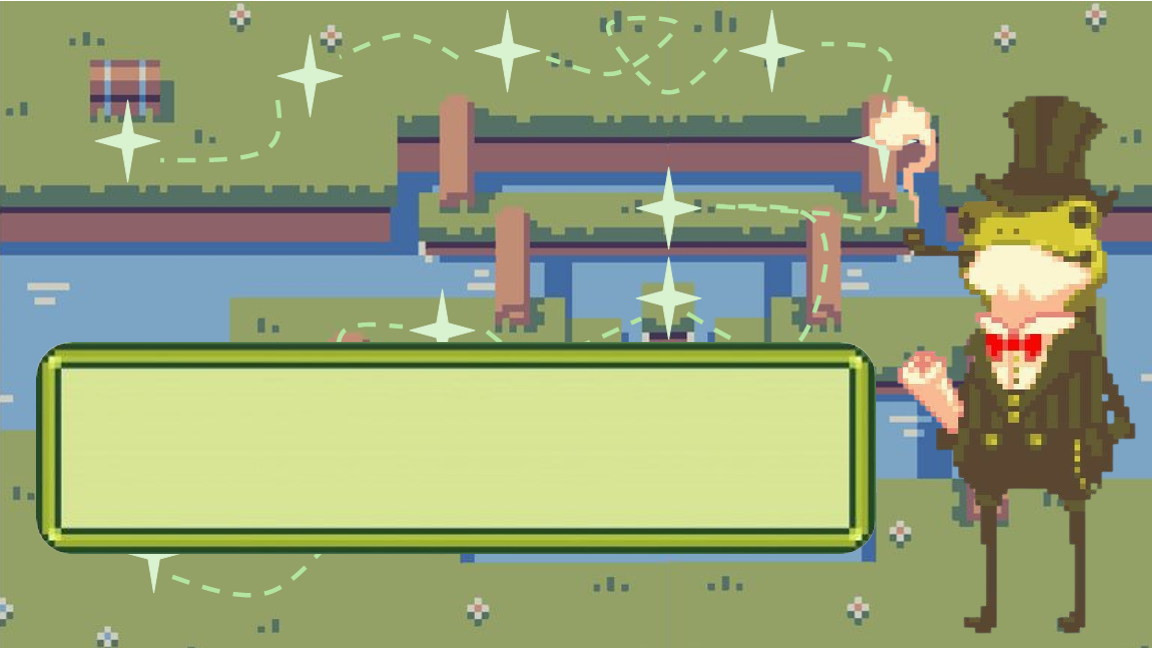
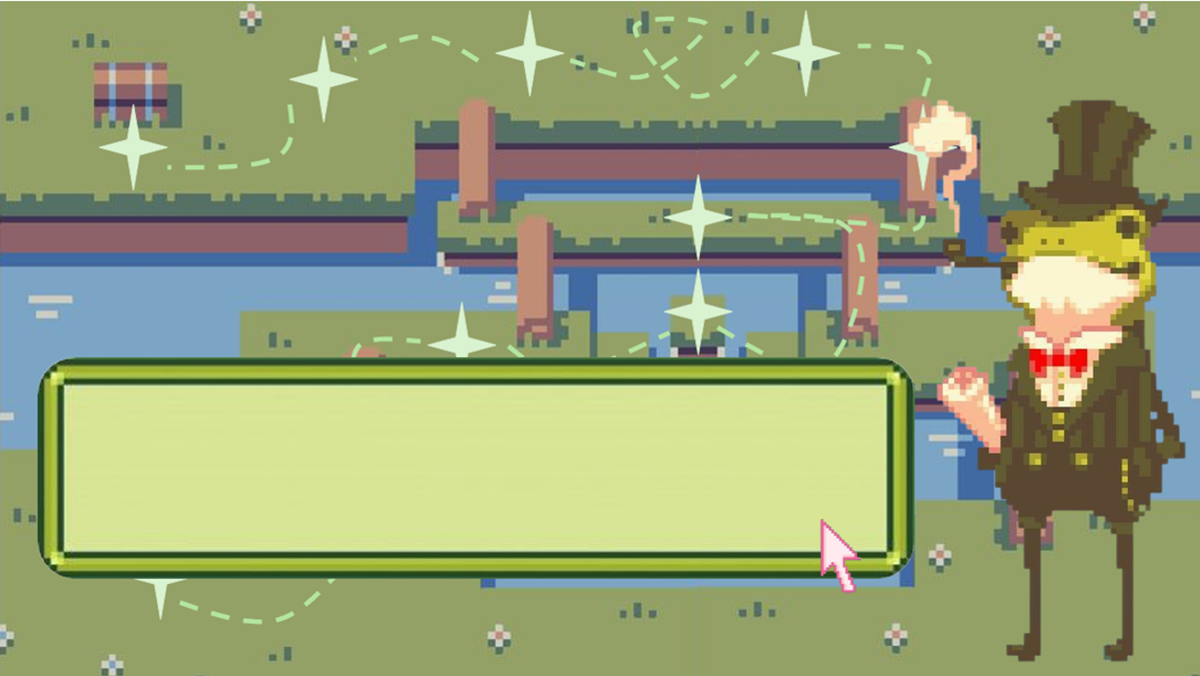
Updated story files

diff --git a/story_2.py b/story_2.py
@@ -10,17 +10,25 @@ TITLE_FONT = pygame.freetype.Font("story_font.otf", 40)
 
 title = """LAYTON"""
 texts = [
-    """Ah voyageur intrépide, *ribbit* bienvenue dans ces contrées sylvestres. Je suis Layton,""",
-    """Chef de la Guilde, gardien de ces marais ancestraux. J’entrevois dans vos yeux une lueur""",
-    """de détermination et de bravoure *ribbit*. Je vous confie une quête d’une importance""",
-    """capitale, même si vous ne l’avez peut être pas encore souhaitée. Vous êtes désigné pour""",
-    """récupérer les dix épées légendaires, symbole de pouvoir et de savoir ancien. Je vous""",
-    """servirais de guide n’ayez crainte *ribbit*. Il est maintenant l’heure pour vous """,
-    """d’accomplir votre destinée. Je vous souhaite bonne chance voyageur *ribbit*."""
+    """Bienvenue dans la première étape de votre périple, voyageur. Vous êtes désormais sur""",
+    """le point de vous aventurer dans les profondeurs de notre royaume, où les défis et""",
+    """les mystères abondent. Pour trouver la première des dix épées légendaires, vous devrez """,
+    """traverser ce niveau avec diligence et habileté.""",
+    """Utilisez les touches fléchées de votre clavier pour vous déplacer à travers ce""",
+    """dédale de dangers. Le temps presse, donc ne tardez pas trop. Chaque seconde écoulée""",
+    """vous rapproche de l'échec.""",
+    """Attention aux obstacles qui jonchent votre chemin. Évitez-les avec agilité pour ne""",
+    """pas compromettre votre progression. Seuls les plus habiles et les plus attentifs""",
+    """réussiront à atteindre l'épée convoitée.""",
+    """N'oubliez pas que votre quête est chronométrée. Le temps file comme le vent, et chaque""",
+    """seconde compte. Soyez rapide, mais ne négligez pas la prudence.""",
+    """Une fois que vous aurez atteint l'épée, votre aventure ne fera que commencer. Mais""",
+    """pour cela, vous devez d'abord surmonter ce premier défi avec succès. Allez, brave""",
+    """voyageur, que la chance soit avec vous."""
 ]
 
 # Constantes
-menu = "images/story_screen.png"
+menu = "images/story_screen_2.png"
 
 
 def creation_fenetre():
@@ -60,10 +68,10 @@ def creation_fenetre():
             if event.type == MOUSEBUTTONDOWN and event.button == 1:  # Vérifier le clic de souris
                 # Récupérer les coordonnées du clic
                 clic_x, clic_y = event.pos
-                if 1349 < clic_x < 1407 and 854 < clic_y < 959:
+                print(clic_x, clic_y)
+                if 1313 < clic_x < 1366 and 828 < clic_y < 941:
                     running = False
                     import select_lvl
     pygame.quit()
-
 
 creation_fenetre()

diff --git a/story.py b/story.py
@@ -1,0 +1,26 @@
+# STORY 1 --> introduction
+
+"""LAYTON : Ah voyageur intrépide, *ribbit* bienvenue dans ces contrées sylvestres. Je suis Layton, Chef de la Guilde,
+gardien de ces marais ancestraux. J’entrevois dans vos yeux une lueur de détermination et de bravoure *ribbit*. Je vous
+confie une quête d’une importance capitale, même si vous ne l’avez peut être pas encore souhaitée. Vous êtes désigné
+pour récupérer les dix épées légendaires, symbole de pouvoir et de savoir ancien. Je vous servirais de guide n’ayez
+crainte *ribbit*. Il est maintenant l’heure pour vous d’accomplir votre destinée. Je vous souhaite bonne chance voyageur
+*ribbit*."""
+
+
+# STORY 2 --> tutoriel de jeu
+""" LAYTON : "Bienvenue dans la première étape de votre périple, voyageur. Vous êtes désormais sur le point de vous 
+aventurer dans les profondeurs de notre royaume, où les défis et les mystères abondent. Pour trouver la première des dix 
+épées légendaires, vous devrez traverser ce niveau avec diligence et habileté."
+
+LAYTON : "Utilisez les touches fléchées de votre clavier pour vous déplacer à travers ce dédale de dangers. Le temps 
+presse, donc ne tardez pas trop. Chaque seconde écoulée vous rapproche de l'échec."
+
+LAYTON : "Attention aux obstacles qui jonchent votre chemin. Évitez-les avec agilité pour ne pas compromettre votre 
+progression. Seuls les plus habiles et les plus attentifs réussiront à atteindre l'épée convoitée."
+
+LAYTON : "N'oubliez pas que votre quête est chronométrée. Le temps file comme le vent, et chaque seconde compte. 
+Soyez rapide, mais ne négligez pas la prudence."
+
+LAYTON : "Une fois que vous aurez atteint l'épée, votre aventure ne fera que commencer. Mais pour cela, vous devez 
+d'abord surmonter ce premier défi avec succès. Allez, brave voyageur, que la chance soit avec vous."""
